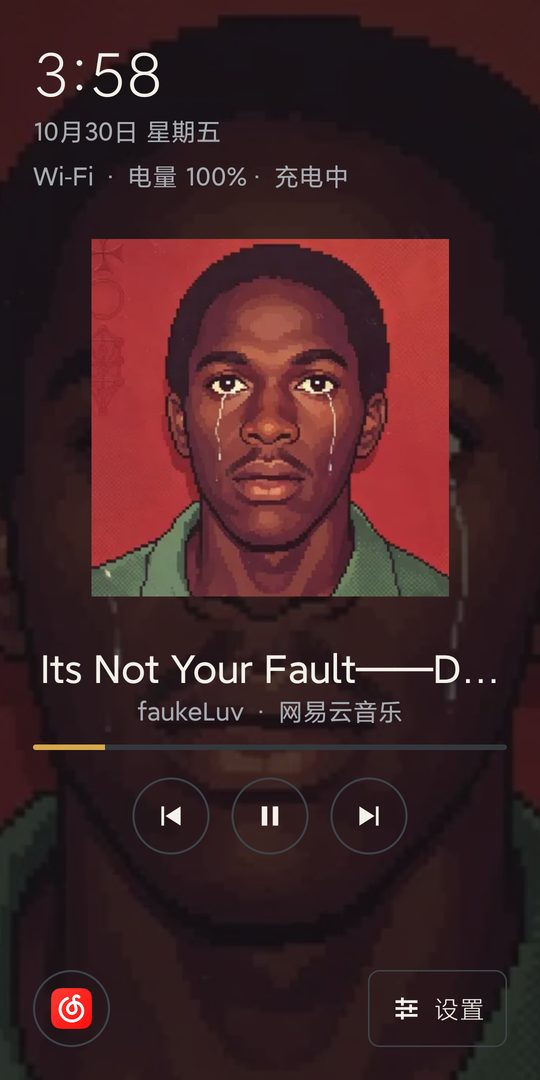
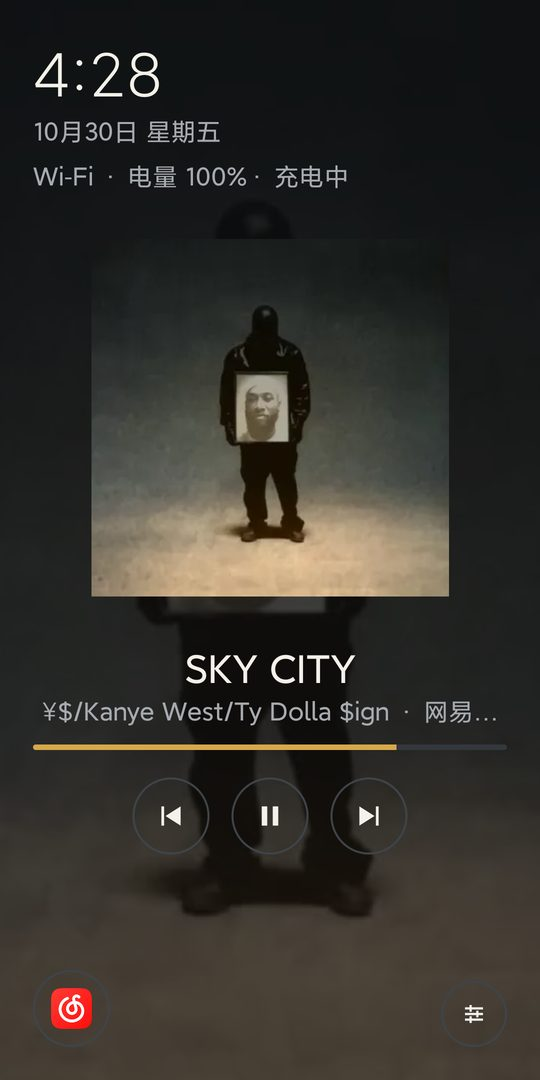
docs: update Walkman screenshots for compact settings entry

diff --git a/docs/superpowers/specs/2026-10-29-old-android-media-shell-design.md b/docs/superpowers/specs/2026-10-29-old-android-media-shell-design.md
@@ -170,7 +170,7 @@
 
 - 视觉方向：Sony Walkman 致敬（现代简化版）——近黑底、暖白细字、单一琥珀强调色、方形封面、圆形描边控制按钮。
 - 时钟使用 `sans-serif-light` 并加大字号；日期/设备状态使用小字距与 muted 灰；标题/作者保持 18sp 以上的可读层级。
-- 播放控制、媒体源、设置入口统一为描边/圆形样式，触控目标仍为 56dp；进度条改为 4dp 细线（琥珀填充、深灰底槽）。
+- 播放控制、媒体源、设置入口统一为描边/圆形样式；播放控制与媒体源按钮为 56dp，设置入口为图标按钮（48dp 视觉、56dp 触控代理、不显示文字）；进度条改为 4dp 细线（琥珀填充、深灰底槽）。
 - 设置页动作按钮改为描边样式，主操作（恢复系统桌面）仍使用琥珀实心强调；不引入品牌 logo、拟物材质、模糊或动画。
 - 与封面全屏背景、隐藏状态栏、双方向布局兼容。
 
